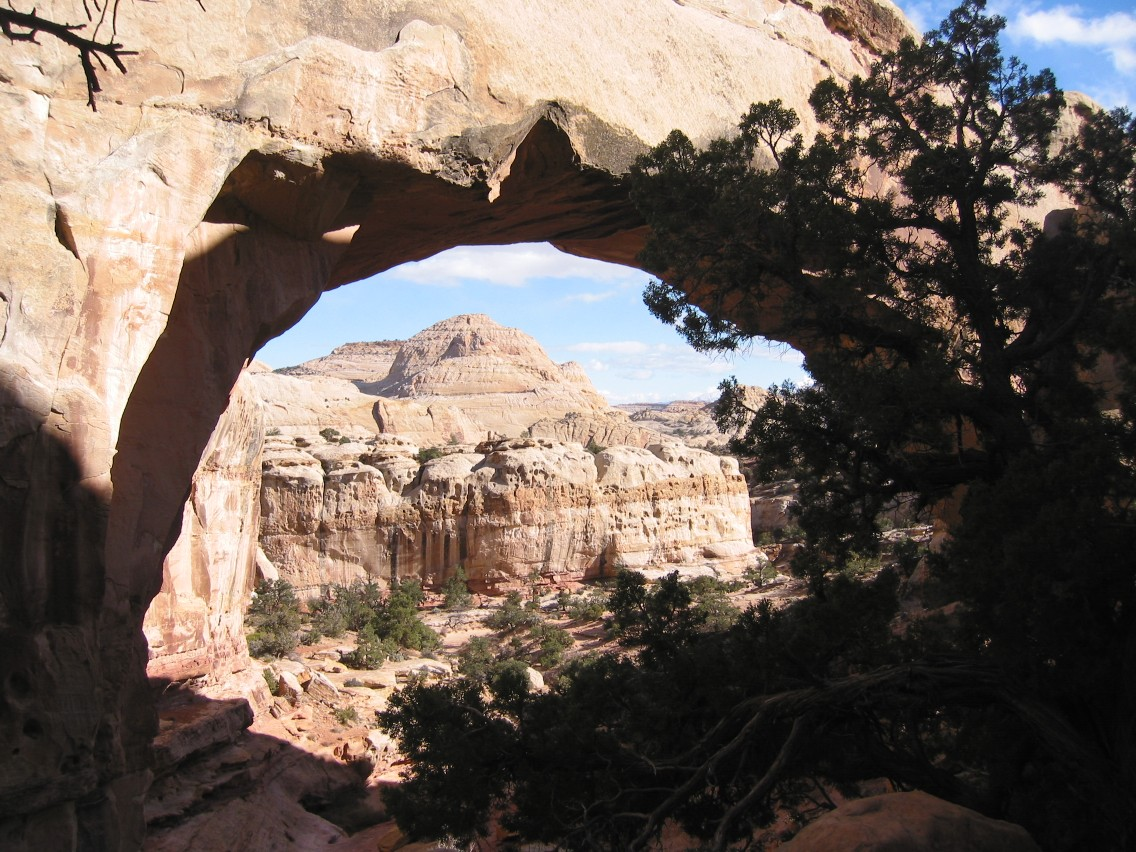
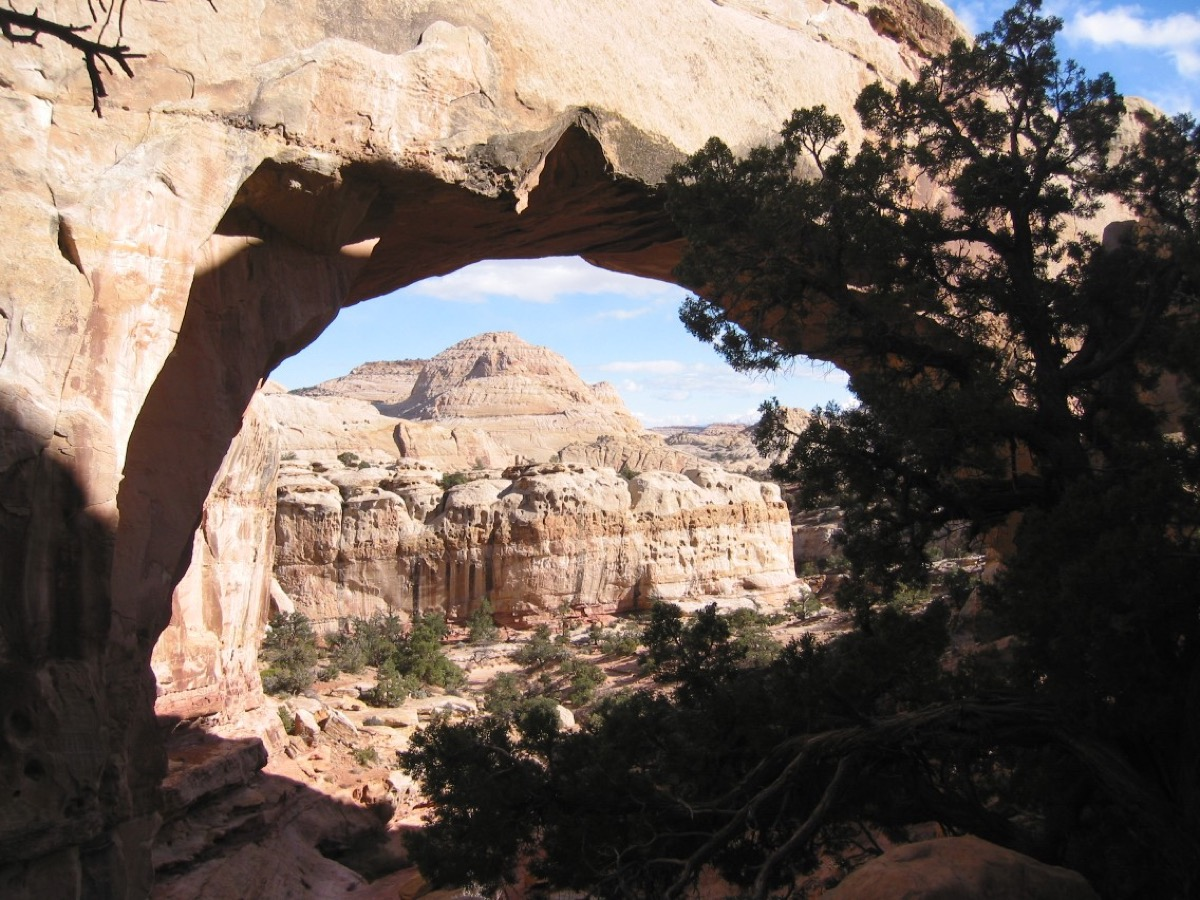
Add TL;DR summaries for all routes and resize images (3-12MB → 132-457KB)

diff --git a/trips/april_roadtrip/route-options.md b/trips/april_roadtrip/route-options.md
@@ -17,6 +17,17 @@ All routes start/end in **Santa Cruz, CA**.
 
 You have **8 days** to get from Santa Cruz to White Rim entry at Mineral Bottom/Hwy 313.
 
+### TL;DR - Pre-White Rim Route Comparison
+
+**Route A: Eastern Sierra Mountain Focus** (~950 mi, 2 rest days)  
+High desert + mountains. Alabama Hills, Mammoth hot springs, Zion. Great scenic drives (Kings Canyon, Whitney Portal). **Catch:** Snow likely at high elevations, some roads may be closed.
+
+**Route B: Desert Parks Focus** (~900 mi, 2 rest days)  
+Iconic parks. Death Valley, Valley of Fire, Gooseberry Mesa biking, Zion. Tons of scenic drives. **Catch:** Death Valley will be HOT (80-95°F+), limited biking there.
+
+**Route C: Moab-Centric** (~750 mi, 4 rest days)  
+Maximum saddle time. Get to Moab fast, ride 4+ days straight (Slickrock, Porcupine, Mag 7, Whole Enchilada). Best weather. **Catch:** Skip other parks, focus is purely on Moab trails.
+
 ### Route A: Eastern Sierra Mountain Focus
 
 ![Alabama Hills](images/alabama-hills.jpg)  
@@ -224,6 +235,17 @@ You have **8 days** to get from Santa Cruz to White Rim entry at Mineral Bottom/
 ## 🟢 POST-WHITE RIM ROUTES (Apr 15-18)
 
 You have **4 days** to return to Santa Cruz after exiting White Rim on Apr 14.
+
+### TL;DR - Post-White Rim Route Comparison
+
+**Route A: Capitol Reef Loop** (~900 mi, 1 rest day)  
+See another park. Capitol Reef scenic drives, Cathedral Valley 4WD option. **Catch:** Long final drive days.
+
+**Route B: Moab Recovery + Direct Return** (~750 mi, 2 rest days)  
+Rest up. 2 full days in Moab to recover (shower, spa, brewery, light riding). Fastest way home. **Catch:** Less variety.
+
+**Route C: Goblin Valley Detour** (~800 mi, 1 rest day)  
+Two parks. Quick Goblin Valley + Capitol Reef combo. Unique landscapes. **Catch:** More moving around, less rest.
 
 ### Route A: Capitol Reef Loop
 
